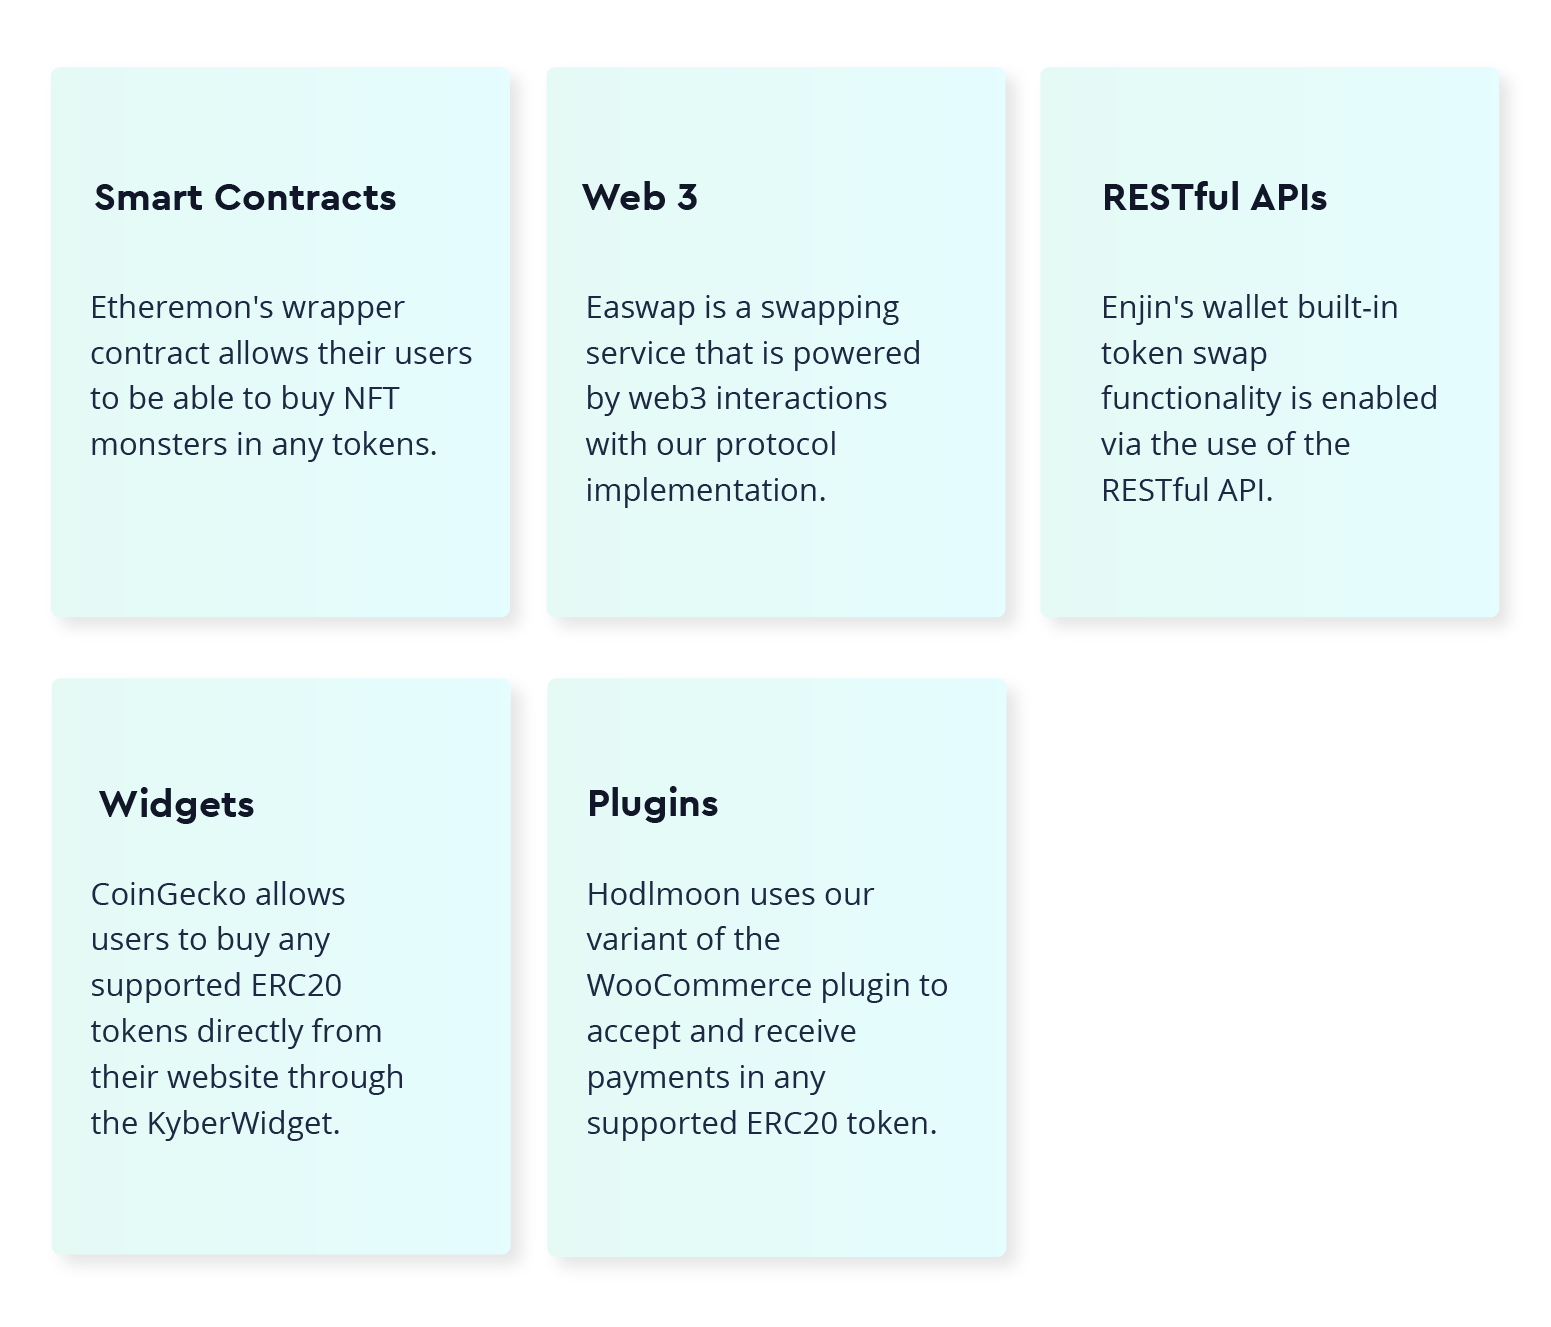
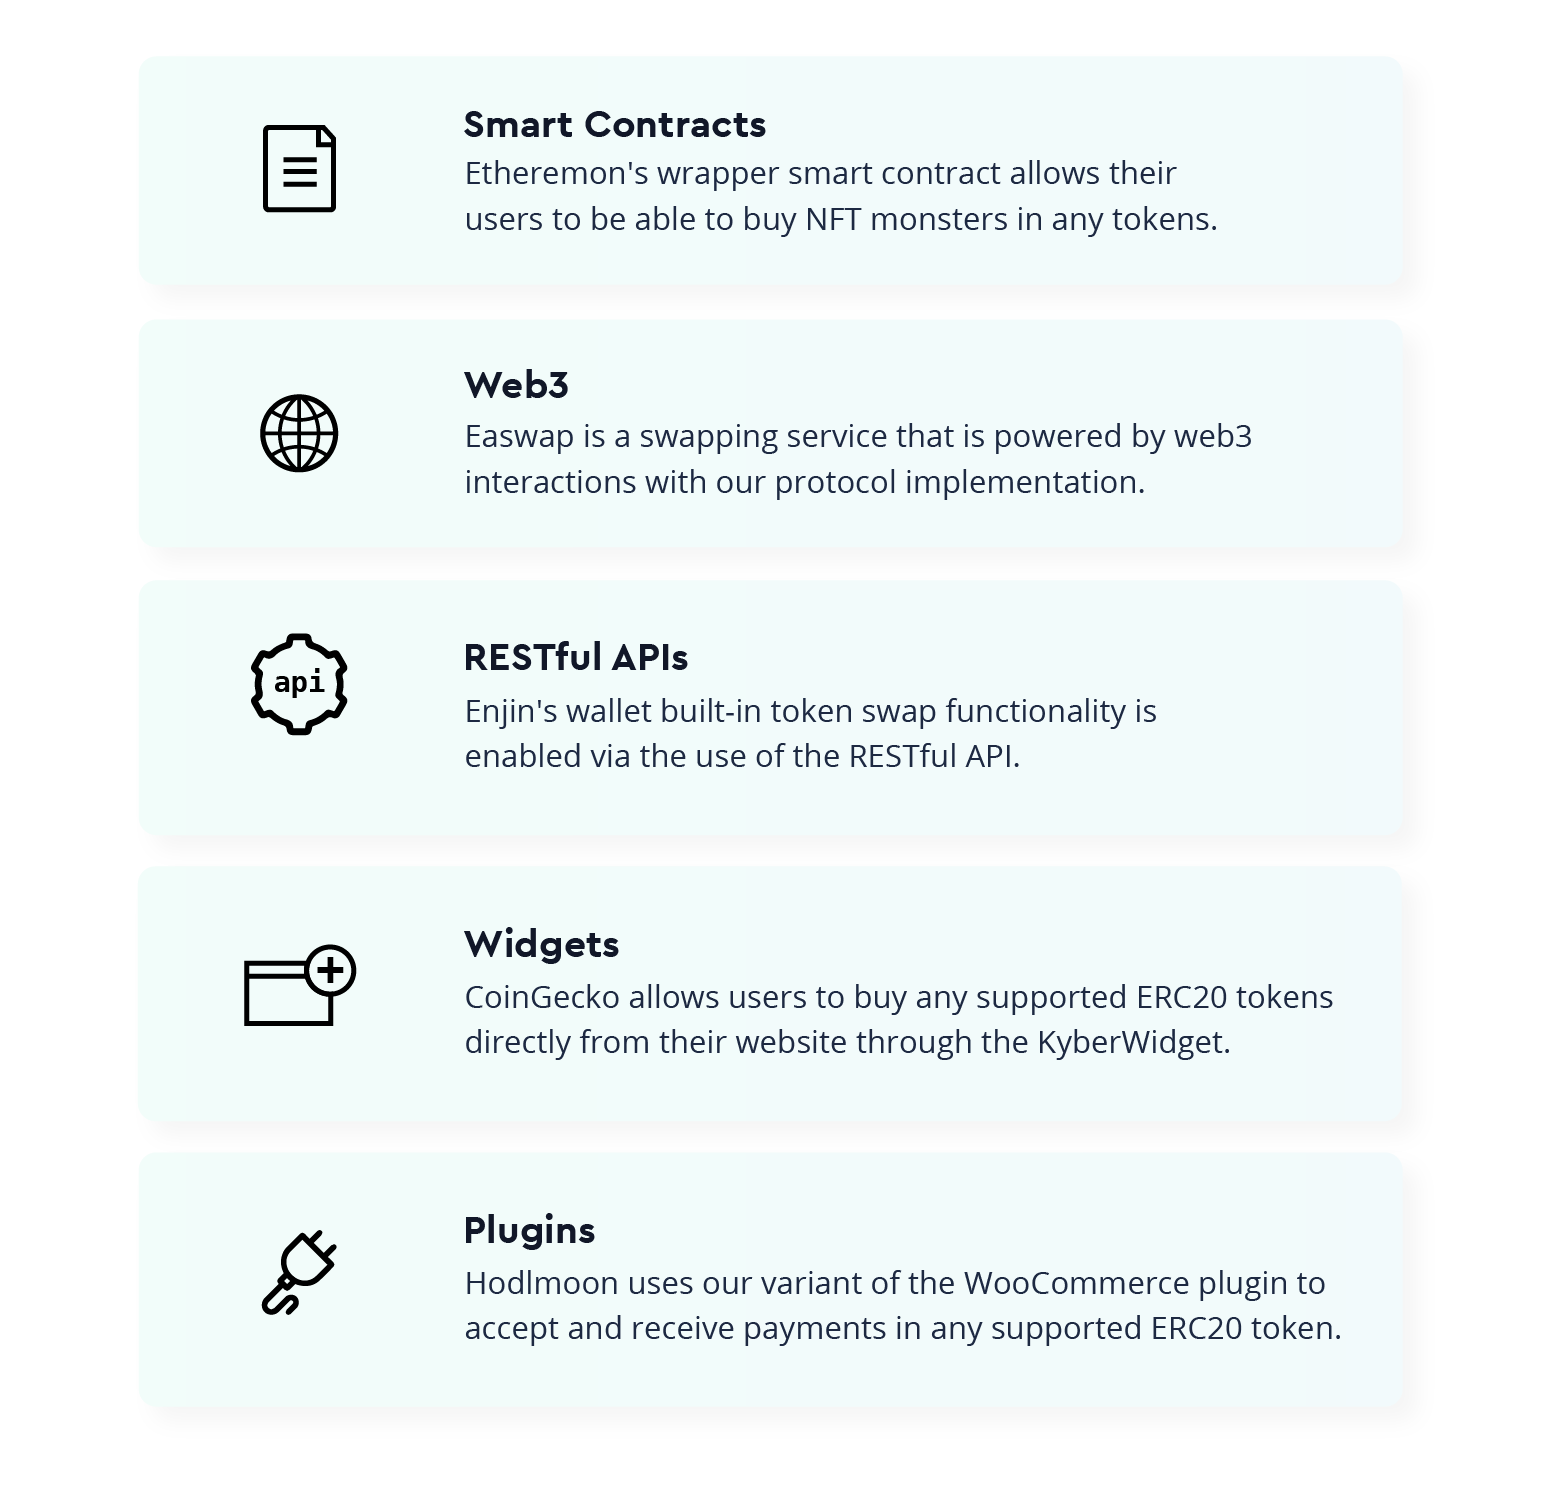
updated guide structure

diff --git a/docs/home-protocoloverview.md b/docs/home-protocoloverview.md
@@ -22,7 +22,9 @@ Reserves are liquidity providers in the network that contributes liquidity in te
 
 #### Reserve Interface
 ![Reserve Interface](/uploads/reserveinterface.png "Reserve Interface")
-Reserves are required to conform to the reserve interface above. Only by complying with the interface will network maintainers be able to register a reserve to the Kyber Core Smart Contracts. The exact implementation details of how reserves determine prices and manage its inventory is not explicitly defined in the protocol and is at the discretion of the developers of these reserves.
+The reserve interface defines the contract functions which reserves are required to conform to. Note that the reserve interface above is a general template of what the reserve interface should look like. The interface may be tweaked further to better suit the needs of the respective blockchains.
+
+Only by complying with the interface will network maintainers be able to register a reserve to the Kyber Core Smart Contracts. The exact implementation details of how reserves determine prices and manage its inventory is not explicitly defined in the protocol and is at the discretion of the developers of these reserves.
 
 #### Registered Reserve
 A list of reserves that will be iterated through when rates are queried or to facilitate a trade.

diff --git a/docs/integrations-overview.md b/docs/integrations-overview.md
@@ -7,12 +7,3 @@ title: Overview
 A project that is looking to integrate with Kyber has 5 different avenues to interact with the protocol implementation. The integration types are as follows:
 
 ![Integration Types](/uploads/integrationtypes.png "Integration Types")
-
-
-| Integration Type | Example |
-|:----------------:|:-------:|
-| `Smart Contracts` | Etheremon's wrapper contract allows their users to be able to buy NFT monsters in any tokens. |
-| `Web3` | Easwap is a swapping service that is powered by web3 interactions with our protocol implementation. |
-| `RESTful APIs` | Enjin's wallet built-in token swap functionality is enabled via the use of the RESTful API. |
-| `Widgets` | CoinGecko allows users to buy any supported ERC20 tokens directly from their website through the KyberWidget. |
-| `Plugins` | Hodlmoon uses our variant of the WooCommerce plugin to accept and receive payments in any supported ERC20 token. |

diff --git a/docs/integrations-smartcontractguide.md b/docs/integrations-smartcontractguide.md
@@ -1,0 +1,5 @@
+---
+id: Integrations-SmartContractGuide
+title: Smart Contract
+---
+Smart contractssss

diff --git a/docs/integrations-restfulapiguide.md b/docs/integrations-restfulapiguide.md
@@ -1,0 +1,5 @@
+---
+id: Integrations-RESTfulAPIGuide
+title: RESTful API
+---
+RESTful API

diff --git a/docs/integrations-widgetguide.md b/docs/integrations-widgetguide.md
@@ -1,0 +1,5 @@
+---
+id: Integrations-WidgetsGuide
+title: Widgets
+---
+widgettsssss

diff --git a/docs/integrations-pluginsguide.md b/docs/integrations-pluginsguide.md
@@ -1,0 +1,5 @@
+---
+id: Integrations-PluginsGuide
+title: Plugins
+---
+plugins

diff --git a/docs/integrations-web3guide.md b/docs/integrations-web3guide.md
@@ -1,0 +1,5 @@
+---
+id: Integrations-Web3Guide
+title: Web 3
+---
+Web333333
